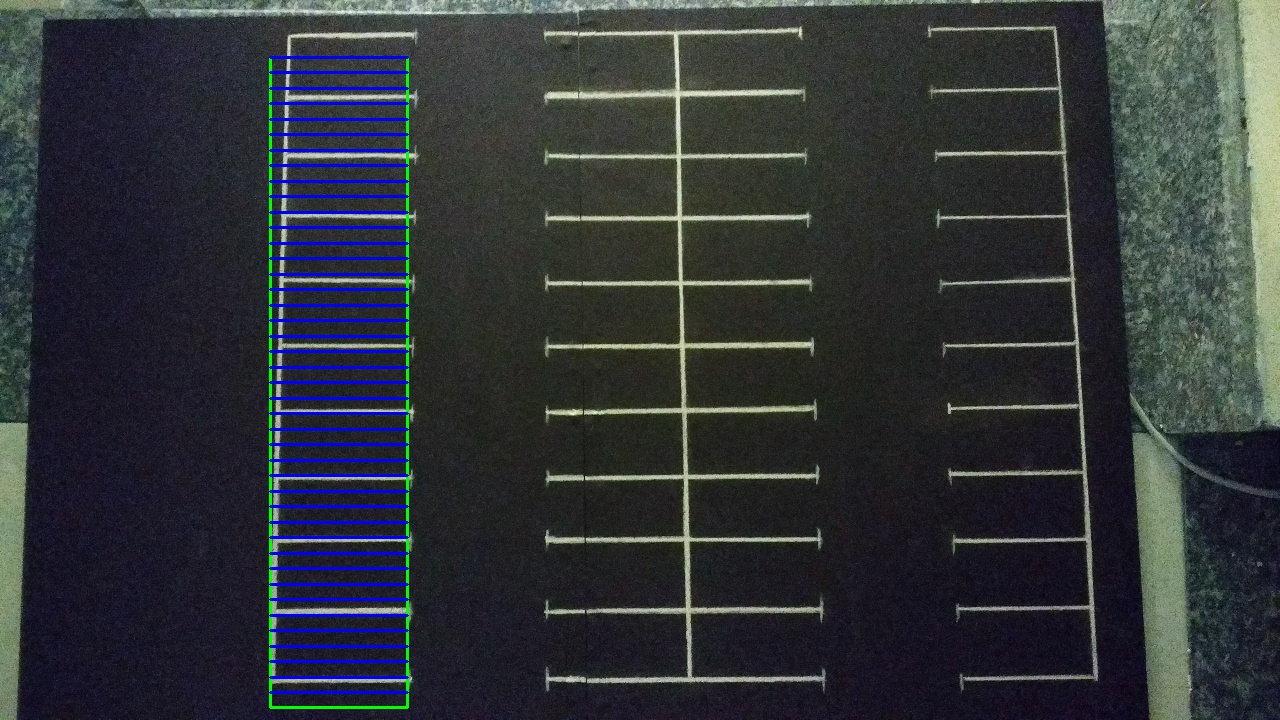
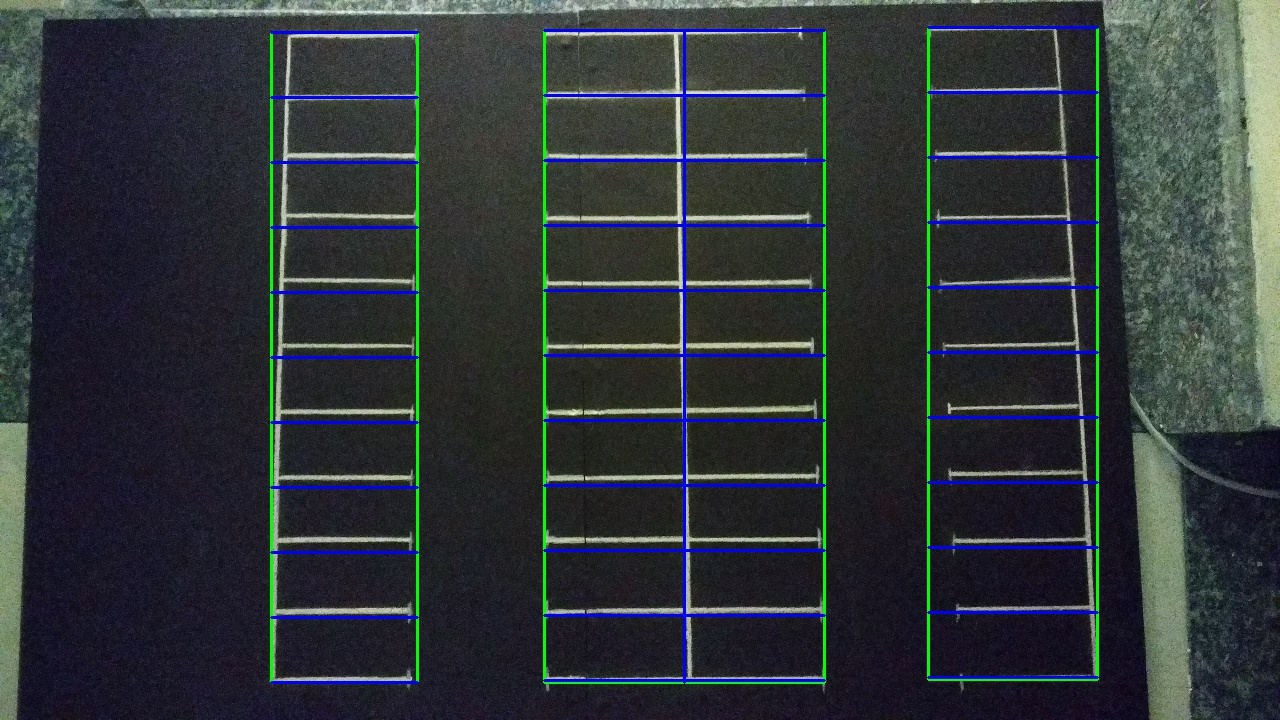
Add model

Changed region(s): [[0.1875, 0.0306, 0.3438, 1.0], [0.4062, 0.0306, 0.6562, 0.9778], [0.7188, 0.0306, 0.875, 0.9472]]

diff --git a/identify_parking_spots.py b/identify_parking_spots.py
@@ -51,15 +51,14 @@ def show_image(image, cmap=None):
 
 # %%
 test_images = [plt.imread(path) for path in glob.glob('test_images/*.jpg')]
-image = test_images[0]
-MAX_KERNEL_LENGTH = 10
+lot_image = test_images[0]
 
 # show_image(image)
 
 #Resize and blur
 kernel_size = 3
 #image = cv2.bilateralFilter(image, kernel_size, kernel_size * 2, kernel_size / 2)
-image = resize(image, 720)
+lot_image = resize(lot_image, 720)
 
 # resize input image (1280x720 should be fined)
 # for index, t_image in enumerate(test_images):
@@ -97,7 +96,7 @@ def select_rgb_white_yellow(image):
     return masked
 
 
-white_yellow_image = select_rgb_white_yellow(image)
+white_yellow_image = select_rgb_white_yellow(lot_image)
 # show_image(white_yellow_image)
 
 
@@ -175,7 +174,7 @@ def select_region(image):
 
 # images showing the region of interest only
 roi_image = select_region(edge_image)
-show_image(roi_image)
+#show_image(roi_image)
 
 # %% [markdown]
 # ### Hough line transform
@@ -215,8 +214,8 @@ def draw_lines(image, lines, color=[255, 0, 0], thickness=2, make_copy=True):
 # for image, lines in zip(test_images, list_of_lines):
 #    line_images.append(draw_lines(image, lines))
 
-line_image, cleaned = draw_lines(image, lines)
-show_image(line_image)
+line_image, cleaned = draw_lines(lot_image, lines)
+#show_image(line_image)
 
 # %% [markdown]
 # Identify rectangular blocks of parking
@@ -302,8 +301,8 @@ def identify_blocks(image, lines, make_copy=True):
 #    rect_coords.append(rects)
 
 
-new_image, rects = identify_blocks(image, lines)
-show_image(new_image)
+new_image, rects = identify_blocks(lot_image, lines)
+#show_image(new_image)
 
 # %% [markdown]
 # ### Identify each spot and count num of parking spaces
@@ -315,7 +314,8 @@ show_image(new_image)
 # %%
 
 
-def draw_parking(image, rects, make_copy=True, color=[255, 0, 0], thickness=2, save=False):
+def draw_parking(image, rects, make_copy=True, 
+                 color=[255, 0, 0], thickness=2, save=True):
     if make_copy:
         new_image = np.copy(image)
     gap = 60
@@ -355,20 +355,18 @@ def draw_parking(image, rects, make_copy=True, color=[255, 0, 0], thickness=2, s
             
         # Add up spots in this lane
         if key == 0 or key == (len(rects) - 1):
-            tot_spots += num_splits + 1
+            tot_spots += num_splits
         else:
-            tot_spots += 2*(num_splits + 1)
-
-        global cur_len
+            tot_spots += 2*num_splits
 
         # Dictionary of spot positions
         if key == 0 or key == (len(rects) - 1):
-            for i in range(0, num_splits+1):
+            for i in range(0, num_splits):
                 cur_len = len(spot_dict)
                 y = int(y1 + i*gap)
                 spot_dict[(x1, y, x2, y+gap)] = cur_len + 1
         else:
-            for i in range(0, num_splits+1):
+            for i in range(0, num_splits):
                 cur_len = len(spot_dict)
                 y = int(y1 + i*gap)
                 x = int((x1 + x2)/2)
@@ -389,8 +387,8 @@ def draw_parking(image, rects, make_copy=True, color=[255, 0, 0], thickness=2, s
 #    spot_pos.append(spot_dict)
 
 
-new_image, spot_dict = draw_parking(image, rects)
-show_image(new_image)
+new_image, spot_dict = draw_parking(lot_image, rects)
+#show_image(new_image)
 
 
 # %%
@@ -410,7 +408,7 @@ def assign_spots_map(image, spot_dict=final_spot_dict, make_copy = True, color=[
         cv2.rectangle(new_image, (int(x1),int(y1)), (int(x2),int(y2)), color, thickness)
     return new_image
 
-marked_spot_image = assign_spots_map(image)
+marked_spot_image = assign_spots_map(lot_image)
 show_image(marked_spot_image)
 
 
@@ -449,81 +447,82 @@ show_image(marked_spot_image)
 # Imports for making predictions
 #from PIL import Image
 #from keras.applications.imagenet_utils import preprocess_input
-#from keras.models import load_model
+from keras.models import load_model
 #from keras.preprocessing import image
 
 
 # %%
-#cwd = os.getcwd()
-#top_model_weights_path = 'car1.h5'
-#
-#class_dictionary = {}
-#class_dictionary[0] = 'empty'
-#class_dictionary[1] = 'occupied'
+cwd = os.getcwd()
+top_model_weights_path = 'car1.h5'
+
+class_dictionary = {}
+class_dictionary[0] = 'empty'
+class_dictionary[1] = 'occupied'
 
 
 # %%
 #from PIL import Image
-#model = load_model(top_model_weights_path)
+model = load_model(top_model_weights_path)
+#model.summary()
 
 
 # %%
-# def make_prediction(image):
-#    #Rescale image
-#    img = image/255.
-#
-#    #Convert to a 4D tensor
-#    image = np.expand_dims(img, axis=0)
-#    #print(image.shape)
-#
-#    # make predictions on the preloaded model
-#    class_predicted = model.predict(image)
-#    inID = np.argmax(class_predicted[0])
-#    label = class_dictionary[inID]
-#    return label
+def make_prediction(spot_image):
+    #Rescale image
+    img = spot_image/255.
+
+    #Convert to a 4D tensor
+    spot_image = np.expand_dims(img, axis=0)
+    #print(image.shape)
+
+    # make predictions on the preloaded model
+    class_predicted = model.predict(spot_image)
+    inID = np.argmax(class_predicted[0])
+    label = class_dictionary[inID]
+    return label
 
 
 # %%
-# def predict_on_image(image, spot_dict = final_spot_dict, make_copy=True, color = [0, 255, 0], alpha=0.5):
-#    if make_copy:
-#        new_image = np.copy(image)
-#        overlay = np.copy(image)
-#    cnt_empty = 0
-#    all_spots = 0
-#    for spot in spot_dict.keys():
-#        all_spots += 1
-#        (x1, y1, x2, y2) = spot
-#        (x1, y1, x2, y2) = (int(x1), int(y1), int(x2), int(y2))
-#        #crop this image
-#        spot_img = image[y1:y2, x1:x2]
-#        spot_img = cv2.resize(spot_img, (48, 48))
-#
-#        label = make_prediction(spot_img)
-# print(label)
-#        if label == 'empty':
-#            cv2.rectangle(overlay, (int(x1),int(y1)), (int(x2),int(y2)), color, -1)
-#            cnt_empty += 1
-#
-#    cv2.addWeighted(overlay, alpha, new_image, 1 - alpha, 0, new_image)
-#
-#    cv2.putText(new_image, "Available: %d spots" %cnt_empty, (30, 95),
-#    cv2.FONT_HERSHEY_SIMPLEX,
-#    0.7, (255, 255, 255), 2)
-#
-#    cv2.putText(new_image, "Total: %d spots" %all_spots, (30, 125),
-#    cv2.FONT_HERSHEY_SIMPLEX,
-#    0.7, (255, 255, 255), 2)
-#    save = False
-#
-#    if save:
-#        filename = 'with_marking.jpg'
-#        cv2.imwrite(filename, new_image)
-#
-#    return new_image
-#
-#
-#predicted_images = list(map(predict_on_image, test_images))
-# show_image(predicted_images)
+def predict_on_image(image, spot_dict = final_spot_dict, 
+                     make_copy=True, color = [0, 255, 0], alpha=0.5,
+                     save=True):
+    if make_copy:
+        new_image = np.copy(image)
+        overlay = np.copy(image)
+    cnt_empty = 0
+    all_spots = 0
+    for spot in spot_dict.keys():
+        all_spots += 1
+        (x1, y1, x2, y2) = spot
+        (x1, y1, x2, y2) = (int(x1), int(y1), int(x2), int(y2))
+        #crop this image
+        spot_img = image[y1:y2, x1:x2]
+        spot_img = cv2.resize(spot_img, (48, 48))
+
+        label = make_prediction(spot_img)
+#        print(label)
+        if label == 'empty':
+            cv2.rectangle(overlay, (int(x1),int(y1)), (int(x2),int(y2)), color, -1)
+            cnt_empty += 1
+
+    cv2.addWeighted(overlay, alpha, new_image, 1 - alpha, 0, new_image)
+
+    cv2.putText(new_image, "Available: %d spots" %cnt_empty, (30, 95),
+    cv2.FONT_HERSHEY_SIMPLEX,
+    0.7, (255, 255, 255), 2)
+
+    cv2.putText(new_image, "Total: %d spots" %all_spots, (30, 125),
+    cv2.FONT_HERSHEY_SIMPLEX,
+    0.7, (255, 255, 255), 2)
+
+    if save:
+        filename = 'with_marking.jpg'
+        cv2.imwrite(filename, new_image)
+
+    return new_image
+
+predicted_image = predict_on_image(lot_image)
+show_image(predicted_image)
 
 # %% [markdown]
 # Run code on video
